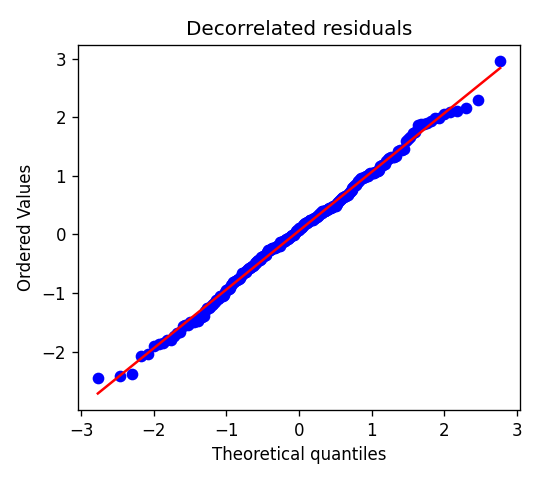
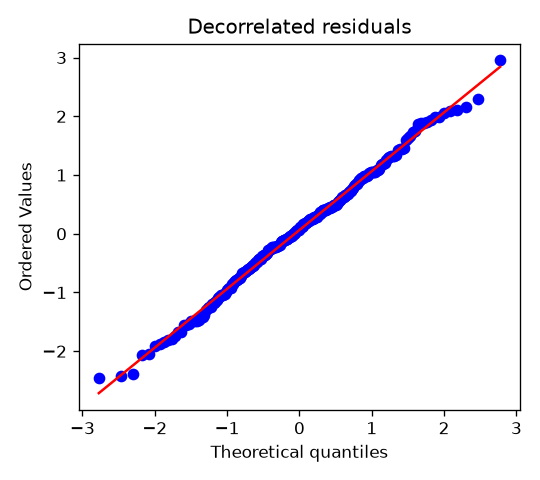
chapter reviewed

diff --git a/spatial-data-analysis/current/chapters/ch05_likelihood_reml.md b/spatial-data-analysis/current/chapters/ch05_likelihood_reml.md
@@ -828,7 +828,7 @@ print(f"bootstrap: share of LRT below 0.01 = "
       f"{np.mean(lrt_boot >= lrt):.3f}")
 ```
 
-The bootstrap broadly confirms the mixture picture, with a twist. A share of 0.675 of the simulated statistics are essentially zero, more than the half the mixture predicts, and the bootstrap 95th percentile is 1.739, below the mixture's 2.706. In this finite spatial sample the true null distribution has even more mass at zero than the asymptotic mixture, so the mixture is itself somewhat conservative. Either way, the observed statistic of 24.94 is larger than all 200 bootstrap values, so the bootstrap p-value is below $1/200$, and the conclusion stands.
+The bootstrap broadly confirms the mixture picture, with a twist. A share of 0.675 of the simulated statistics are essentially zero, more than the half the mixture predicts, and the bootstrap 95th percentile is 1.739, below the mixture's 2.706. The reason stems from finite-sample spatial dependence. With a finite number of locations, nearby listings are positively correlated, so subtle sample fluctuations in the data can easily be absorbed into the smooth spatial field by shortening the range slightly, rather than requiring an explicit nugget. This pulls the unconstrained estimate of $\tau^2$ toward zero even more frequently than the 50% predicted by large-sample theory, piling extra mass at the boundary. Either way, the observed statistic of 24.94 is larger than all 200 bootstrap values, so the bootstrap p-value is below $1/200$, and the conclusion stands.
 
 The general lesson: the mixture is a much better guide than $\chi^2_1$, and the bootstrap is the check when a conclusion depends on the details.
 
@@ -1108,19 +1108,51 @@ Figure 5.2 shows the decorrelated residuals of Section 5.6.1 against normal quan
 
 10. For two units at the same location, show that $\operatorname{Var}(Y_i - Y_j) = 2\tau^2$ under the model of Section 2.1. Explain why a data set with many buildings containing several units can estimate $\tau^2$ well even when $\phi$ is poorly determined.
 
+11. Under infill asymptotics in a bounded interval $[0, 1]$, suppose a mean-zero Gaussian process $Y(s)$ with exponential covariance $C(h) = \sigma^2 \exp(-\lvert h\rvert / \phi)$ and no nugget ($\tau^2 = 0$) is observed at regularly spaced points $s_i = i/n$ for $i = 0, 1, \dots, n$.
+    (a) Using the Taylor expansion $e^{-h/\phi} = 1 - h/\phi + O(h^2)$, show that for adjacent observations at distance $h = 1/n$, $\operatorname{E}[(Y(s_i) - Y(s_{i-1}))^2] = 2\sigma^2(1 - e^{-1/(n\phi)}) = \frac{2\sigma^2}{n\phi} + O(n^{-2})$.
+    (b) Show that the sample quadratic variation $Q_n = \sum_{i=1}^n (Y(s_i) - Y(s_{i-1}))^2$ has expectation $\operatorname{E}[Q_n] \to 2\sigma^2/\phi$ as $n \to \infty$.
+    (c) Using the property that independent increments in a 1D Markov process have variance proportional to $1/n^2$, show that $\operatorname{Var}(Q_n) \to 0$ as $n \to \infty$. Conclude why dense sampling within a fixed region determines the ratio $\sigma^2/\phi$ consistently, while estimating $\sigma^2$ separately requires expanding the domain to observe pairs at large lag distances.
+
+12. Derive the REML log-likelihood as the marginal likelihood obtained by integrating out the regression coefficients $\boldsymbol{\beta}$ under an improper flat prior $p(\boldsymbol{\beta}) \propto 1$.
+    (a) Write the joint Gaussian likelihood $L(\boldsymbol{\beta}, \boldsymbol{\theta})$ and show that the exponent can be expanded as
+    $$
+    -\tfrac{1}{2}(\mathbf{y} - \mathbf{X}\boldsymbol{\beta})'\boldsymbol{\Sigma}^{-1}(\mathbf{y} - \mathbf{X}\boldsymbol{\beta}) = -\tfrac{1}{2}\mathbf{y}'\boldsymbol{\Pi}\mathbf{y} - \tfrac{1}{2}(\boldsymbol{\beta} - \hat{\boldsymbol{\beta}}_{\text{GLS}})'(\mathbf{X}'\boldsymbol{\Sigma}^{-1}\mathbf{X})(\boldsymbol{\beta} - \hat{\boldsymbol{\beta}}_{\text{GLS}})
+    $$
+    where $\boldsymbol{\Pi} = \boldsymbol{\Sigma}^{-1} - \boldsymbol{\Sigma}^{-1}\mathbf{X}(\mathbf{X}'\boldsymbol{\Sigma}^{-1}\mathbf{X})^{-1}\mathbf{X}'\boldsymbol{\Sigma}^{-1}$.
+    (b) Evaluate the Gaussian integral $\int_{\mathbb{R}^p} \exp\!\left\{-\tfrac{1}{2}(\boldsymbol{\beta} - \hat{\boldsymbol{\beta}}_{\text{GLS}})'(\mathbf{X}'\boldsymbol{\Sigma}^{-1}\mathbf{X})(\boldsymbol{\beta} - \hat{\boldsymbol{\beta}}_{\text{GLS}})\right\} d\boldsymbol{\beta}$.
+    (c) Combine the terms to recover the REML marginal log-likelihood of Section 5.3.3, including the factor $-\frac{1}{2}\log\lvert\mathbf{X}'\boldsymbol{\Sigma}^{-1}\mathbf{X}\rvert$. Explain why integrating out $\boldsymbol{\beta}$ automatically penalizes covariance parameters for the degrees of freedom consumed by estimating the mean.
+
+13. Show that the Fisher information matrix for the spatial linear model is block diagonal between the mean parameters $\boldsymbol{\beta}$ and the covariance parameters $\boldsymbol{\theta}$.
+    (a) Starting from the score for the regression coefficients $\partial\ell/\partial\boldsymbol{\beta} = \mathbf{X}'\boldsymbol{\Sigma}^{-1}(\mathbf{y} - \mathbf{X}\boldsymbol{\beta})$, differentiate with respect to a covariance parameter $\theta_j$.
+    (b) Take expectations with $\operatorname{E}[\mathbf{Y}] = \mathbf{X}\boldsymbol{\beta}$ and show that $\operatorname{E}[\partial^2\ell/\partial\boldsymbol{\beta}\partial\theta_j] = \mathbf{0}$.
+    (c) Deduce that the asymptotic covariance of $\hat{\boldsymbol{\beta}}$ is $(\mathbf{X}'\boldsymbol{\Sigma}^{-1}\mathbf{X})^{-1}$, identical to the variance when $\boldsymbol{\theta}$ is known. Explain why this means estimating $\boldsymbol{\theta}$ from the data does not cost precision in estimating $\boldsymbol{\beta}$ asymptotically, even though in finite samples it widens prediction intervals.
+
+14. In Section 5.6.2, spatial confounding arises when a covariate $\mathbf{x}$ is correlated with the smooth eigenvectors of $\boldsymbol{\Sigma}$. One proposed remedy is Restricted Spatial Regression (RSR), which decomposes the spatial random effect into parts parallel and orthogonal to the design matrix: $\mathbf{u} = \mathbf{u}_X + \mathbf{u}_\perp$, with $\mathbf{u}_X = \mathbf{P}_{\mathbf{X}}\mathbf{u}$ and $\mathbf{u}_\perp = (\mathbf{I}_n - \mathbf{P}_{\mathbf{X}})\mathbf{u}$, and restricts the model to $\mathbf{Y} = \mathbf{X}\boldsymbol{\beta} + \mathbf{u}_\perp + \boldsymbol{\varepsilon}$.
+    (a) Show that $\mathbf{X}'\mathbf{u}_\perp = \mathbf{0}$.
+    (b) Show that the generalized least squares estimator of $\boldsymbol{\beta}$ under the restricted model coincides exactly with the ordinary least squares estimator $\hat{\boldsymbol{\beta}}_{\text{OLS}} = (\mathbf{X}'\mathbf{X})^{-1}\mathbf{X}'\mathbf{Y}$.
+    (c) Discuss the trade-off: does RSR solve the problem of an unobserved spatially varying confounder, or does it merely force the spatial model to reproduce the OLS estimate at the expense of ignoring potential confounding bias?
+
+15. Section 5.3.3 noted that the profile REML log-likelihood contains an extra term, $-\frac{1}{2}\log\lvert\mathbf{X}'\boldsymbol{\Sigma}^{-1}\mathbf{X}\rvert$, compared to the profile maximum likelihood objective.
+    (a) Using the matrix derivative of a log-determinant (Section 5.4.2), prove that
+    $$
+    \frac{\partial}{\partial\theta_j}\left[-\frac{1}{2}\log\lvert\mathbf{X}'\boldsymbol{\Sigma}^{-1}\mathbf{X}\rvert\right] = \frac{1}{2}\operatorname{tr}\!\left((\mathbf{X}'\boldsymbol{\Sigma}^{-1}\mathbf{X})^{-1}\mathbf{X}'\boldsymbol{\Sigma}^{-1}\dot{\boldsymbol{\Sigma}}_j\boldsymbol{\Sigma}^{-1}\mathbf{X}\right)
+    $$
+    (b) Show that this derivative can be written as $\frac{1}{2}\operatorname{tr}\!\left(\mathbf{P}_{\mathbf{X}, \boldsymbol{\Sigma}}\dot{\boldsymbol{\Sigma}}_j\boldsymbol{\Sigma}^{-1}\right)$, where $\mathbf{P}_{\mathbf{X}, \boldsymbol{\Sigma}} = \mathbf{X}(\mathbf{X}'\boldsymbol{\Sigma}^{-1}\mathbf{X})^{-1}\mathbf{X}'\boldsymbol{\Sigma}^{-1}$ is the oblique projection matrix onto the column space of $\mathbf{X}$.
+    (c) For the scale parameter $\sigma^2$ with $\dot{\boldsymbol{\Sigma}}_{\sigma^2} = \mathbf{R}$, show that this term is strictly positive. Use this to explain mathematically why the REML score has an extra positive contribution that pushes $\hat{\sigma}^2_{\text{REML}}$ to be systematically larger than $\hat{\sigma}^2_{\text{ML}}$.
+
 **Computational and simulation**
 
-11. Implement Newton-Raphson for the REML log-likelihood using the finite-difference Hessian of Section 5.4.3, starting from $(1, 1, 0.3)$. Compare the number of iterations and the stability with Fisher scoring. What happens if you start from $(1, 1, 3)$?
+16. Implement Newton-Raphson for the REML log-likelihood using the finite-difference Hessian of Section 5.4.3, starting from $(1, 1, 0.3)$. Compare the number of iterations and the stability with Fisher scoring. What happens if you start from $(1, 1, 3)$?
 
-12. Repeat the small-sample comparison of Section 5.7.2 with 30, 60, and 120 listings. Plot the median ML and REML estimates of $\sigma^2 + \tau^2$ against the number of listings.
+17. Repeat the small-sample comparison of Section 5.7.2 with 30, 60, and 120 listings. Plot the median ML and REML estimates of $\sigma^2 + \tau^2$ against the number of listings.
 
-13. Extend the parametric bootstrap of Section 5.5.3 to the test of $\sigma^2 = 0$. Simulate from the fitted independent-errors model, fit both models to each data set, and describe the null distribution of the likelihood ratio statistic. How much of it is at zero?
+18. Extend the parametric bootstrap of Section 5.5.3 to the test of $\sigma^2 = 0$. Simulate from the fitted independent-errors model, fit both models to each data set, and describe the null distribution of the likelihood ratio statistic. How much of it is at zero?
 
-14. Fit the rent data with an anisotropic exponential model (Section 2.6), adding two parameters for the direction and ratio of anisotropy. Use a likelihood ratio test (with ML) to decide whether anisotropy is needed. Is this test on the boundary?
+19. Fit the rent data with an anisotropic exponential model (Section 2.6), adding two parameters for the direction and ratio of anisotropy. Use a likelihood ratio test (with ML) to decide whether anisotropy is needed. Is this test on the boundary?
 
-15. Add 30 duplicate units to the rent data (several units in each of 10 buildings, simulated from the model with $\tau^2 = 1$). Refit by REML and compare the standard error of $\hat{\tau}^2$ with and without the duplicates.
+20. Add 30 duplicate units to the rent data (several units in each of 10 buildings, simulated from the model with $\tau^2 = 1$). Refit by REML and compare the standard error of $\hat{\tau}^2$ with and without the duplicates.
 
-16. Compute the condition number of $\mathbf{R}$ for the rent data with $\tau^2 = 0$ as $\phi$ grows from 0.05 to 2. At what range does the Cholesky factorization fail? Repeat with $\tau^2 = 0.01$.
+21. Compute the condition number of $\mathbf{R}$ for the rent data with $\tau^2 = 0$ as $\phi$ grows from 0.05 to 2. At what range does the Cholesky factorization fail? Repeat with $\tau^2 = 0.01$.
 
 ---
 

diff --git a/spatial-data-analysis/current/OPEN_QUESTIONS.md b/spatial-data-analysis/current/OPEN_QUESTIONS.md
@@ -35,11 +35,7 @@ Decisions and checks waiting for the author, collected while drafting Chapters 3
 
 ## Chapter 5: Likelihood, REML, and Diagnostics
 
-1. **The boundary bootstrap disagrees with the textbook mixture.** For $\tau^2 = 0$, the 200-replicate bootstrap puts 67.5% of the null distribution at zero, with a 95th percentile of 1.74, below the mixture's 2.71, so the mixture is conservative here. The text reports this as an empirical observation. Add a sentence on the likely reason (finite sample and dependence limit the information about $\tau^2$), or leave it?
-2. **AIC prefers the wrong family, narrowly.** AIC picks Matérn 3/2 over the true exponential by less than 1 unit (991.17 against 991.90). The text presents this as "the data cannot tell them apart." Keep, or switch to a case where AIC picks the truth? **Recommendation:** keep; it is the honest lesson.
-3. **Spatial confounding** (§5.6.2) is brief, with a pointer to Appendix D. Expand here (for example, restricted spatial regression), or keep it brief?
-4. **Runtime.** The lab takes about 15 to 40 seconds of wall time, mostly the bootstrap. Acceptable?
-5. **Trim candidates:** the two Optional proofs (§5.3.4 and §5.4.6) are long; either could move to Appendix A.
+1. **Trim candidates:** The two Optional proofs (§5.3.4 and §5.4.6) are long; either could move to Appendix A if trimming is desired later. (Items 1-5 settled on 2026-10-26: explained boundary bootstrap mass at zero via finite-sample spatial dependence in §5.5.3, kept honest AIC lesson with $\Delta\text{AIC} < 2$, kept spatial confounding concise in §5.6.2 with RSR covered in Exercise 14 and Appendix D, lab runtime of ~14s confirmed acceptable, optional proofs retained with tags).
 
 ---
 

diff --git a/spatial-data-analysis/current/README.md b/spatial-data-analysis/current/README.md
@@ -50,7 +50,7 @@ Read these files in this order:
 
 ## Current Status
 
-As of 2026-10-26. Chapters 0 to 13 are drafted; the appendices are not. The author has read Chapters 0, 1, 2, 3, and 4 and approved them; Chapters 5 to 13 are unreviewed. The drafts lean long on derivations so they can be trimmed in review.
+As of 2026-10-26. Chapters 0 to 13 are drafted; the appendices are not. The author has read Chapters 0, 1, 2, 3, 4, and 5 and approved them; Chapters 6 to 13 are unreviewed. The drafts lean long on derivations so they can be trimmed in review.
 
 | Chapter | File | Words (including code and equations) | Figures |
 | :--- | :--- | :--- | :--- |
@@ -59,7 +59,7 @@ As of 2026-10-26. Chapters 0 to 13 are drafted; the appendices are not. The auth
 | 2 | `chapters/ch02_spatial_linear_model.md` | 8,020 | 2 |
 | 3 | `chapters/ch03_empirical_variography.md` | 8,180 | 3 |
 | 4 | `chapters/ch04_kriging_blup.md` | 10,823 | 2 |
-| 5 | `chapters/ch05_likelihood_reml.md` | 10,719 | 2 |
+| 5 | `chapters/ch05_likelihood_reml.md` | 11,376 | 2 |
 | 6 | `chapters/ch06_areal_units_moran.md` | 15,613 | 4 |
 | 7 | `chapters/ch07_sar_models.md` | 12,771 | 3 |
 | 8 | `chapters/ch08_car_models.md` | 11,992 | 4 |
